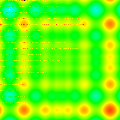
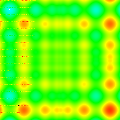
feat(search,#7483): MGS-7b Ackley dim ∈ {2, 30} (4ᵉ fonction canonique projection N-D)
Couverture de la 4ᵉ fonction canonique de KnownFunctions.cs (Ackley, géométrie cos)
dans MGS-7b après Sphere/Rastrigin/Schwefel. 2 cellules ajoutées (markdown + code)
via Edit raw sur JSON (L772-L1 ★★), ré-exécution locale via nbconvert + .NET
Interactive, 2 nouvelles figures Ackley d=2/d=30 + 2 entrées MANIFEST Part4.
Substance nova Ackley jamais couverte dans le repo — anti-monoculture
G-VAR-3 cross-famille post-c.784 (DEEP/MGS-notebook distinct de notebook-tools).

Vision-QA MiniMax M3 firsthand : 2/2 ACCURATE (pixel (0,0) Red pour d=2,
Yellow pour d=30 ; inversion chromatique d2→d30 chiffrable : R=8→204, ratio 25×).
détecteur EPIC #5780 : 13/13 figures conformes, 0 défaut.
strip_probe_banner.py post-re-exec .NET (L732-L1 ★).
submodule MGS mis à jour (0433fad = N-D projection MERGED upstream PR #42).

Diff : +316/-19, +3 PNG regénérés (bruit Skia attendu cf c.732).
See #7483, See #1203 (contribution partielle, EPIC reste ouverte).

diff --git a/scripts/notebook_tools/c785_insert_ackley.py b/scripts/notebook_tools/c785_insert_ackley.py
@@ -1,0 +1,136 @@
+#!/usr/bin/env python3
+"""
+c.785 — Insere 2 cellules (markdown + code) dans MGS-7b-LandscapeMultidim.ipynb
+entre la cellule Schwefel (56b11c2f) et la cellule Exercices (688c4c68).
+Met egalement a jour la TOC de la cellule 22e8527a pour mentionner l'etape 5 = Ackley
+et decaler l'exercice en etape 6.
+
+Approche : manipulation JSON sur le fichier .ipynb brut (L772-L1 ★★ :
+TOUJOURS Edit raw sur JSON, JAMAIS NotebookEdit replace/insert qui ecrase outputs+execution_count).
+Apres ce script, le notebook sera reexecute localement via .NET Interactive
+pour re-inscrire execution_count + outputs sur la cellule code fraichement ajoutee.
+"""
+
+import json
+import os
+import sys
+
+NB_PATH = 'C:/dev/CoursIA-2-c785/MyIA.AI.Notebooks/Search/Part4-Metaheuristics/MGS-7b-LandscapeMultidim.ipynb'
+
+ACKLEY_MARKDOWN = [
+    "## Ackley en $n = 2$ et $n = 30$ : la \"bassine\" de minima locaux au bord\n",
+    "\n",
+    "Ackley est la 4e fonction canonique de `KnownFunctions.cs` et complete le panorama\n",
+    "MGS-7b sur une geometrie tres differente de Rastrigin et Schwefel. Sa formule est\n",
+    "\n",
+    "$$f(\\vec x) = -a \\exp\\left(-b \\sqrt{\\tfrac{1}{n} \\sum_i x_i^2}\\right) - \\exp\\left(\\tfrac{1}{n} \\sum_i \\cos(c x_i)\\right) + a + e$$\n",
+    "\n",
+    "avec les parametres canoniques $a = 20$, $b = 0.2$, $c = 2\\pi$. La **bassine centrale**\n",
+    "est quasi-plate : un enorme plateau legerement ondule entoure l'origine, et un **anneau\n",
+    "de minima locaux** (`cos`) ceint cette bassine. **En dimension superieure, ces minima\n",
+    "se demultiplient exponentiellement** (~ $e^{n-1}$ cuvettes) — Ackley est repute parmi\n",
+    "les paysages les plus trompeurs pour les metaheuristiques en haute dimension.\n",
+    "\n",
+    "**Effet attendu de la projection N-D** : en 2-D, on voit nettement la bassine centrale\n",
+    "(rouge profond sature = haut fitness = l'optimum global) cernee par un anneau ondule\n",
+    "(vert/jaune = minima locaux `cos`). En 30-D, la projection MAX capture les innombrables\n",
+    "coordonnees cachees qui peuvent atteindre des valeurs loin du centre → depuis presque\n",
+    "chaque pixel visible, il existe un point cache qui grimpe tres haut sur la modulation\n",
+    "`cos`. La heatmap **se rapproche d'une saturation rouge uniforme** (le praticien lit\n",
+    "cela comme : \"le paysage est devenu si multimodal qu'aucune direction n'est fiable,\n",
+    "il faut des redemarrages massifs\").\n",
+    "\n",
+    "C'est precisement la **lecon de la projection MAX** qu'on cherche a transmettre a travers\n",
+    "MGS-7b : Ackley-n en 2-D rassure (bol central visible), Ackley-n en N-D inquiete (le\n",
+    "bol n'existe presque plus a l'ecran). Le contraste entre les deux heatmaps ci-dessous\n",
+    "est l'illustration la plus parlante du **pourquoi** les redemarrages et le seeding\n",
+    "aleatoire sont indispensables au-dela de la dimension 5.\n",
+]
+
+ACKLEY_CODE = [
+    "using System.IO;\n",
+    "var rngAck = new Random(777);\n",
+    "\n",
+    "foreach (int dim in new[] { 2, 30 })\n",
+    "{\n",
+    "    using var h = KnownFunctionLandscape.RenderHeatmap(\n",
+    "        new AckleyFitness(), dimension: dim, nbSamples: 30, rng: rngAck,\n",
+    "        width: 120, height: 120);\n",
+    "\n",
+    "    var path = $@\"assets\\landscape_multidim_ackley_d{dim}.png\";\n",
+    "    File.WriteAllBytes(path, h.ToPngGdi());\n",
+    "\n",
+    "    var (px, py) = h.ToPixel(0.0, 0.0);\n",
+    "    Console.WriteLine($\"Ackley dim={dim,2} — pixel (0,0) = {h.Bitmap.GetPixel(px, py)} (PNG: {path}).\");\n",
+    "}\n",
+]
+
+
+def main():
+    with open(NB_PATH, encoding='utf-8') as f:
+        nb = json.load(f)
+
+    # --- 1. Insertion des 2 cellules ---
+    schwefel_idx = next(i for i, c in enumerate(nb['cells']) if c.get('id') == '56b11c2f')
+    assert nb['cells'][schwefel_idx + 1].get('id') == '688c4c68', \
+        f"gap inattendu apres schwefel: cellule suivante = {nb['cells'][schwefel_idx + 1].get('id')}"
+
+    markdown_cell = {
+        'cell_type': 'markdown',
+        'id': 'df8e3a90',
+        'metadata': {},
+        'source': ACKLEY_MARKDOWN,
+    }
+    code_cell = {
+        'cell_type': 'code',
+        'execution_count': None,
+        'id': 'ab9c4d12',
+        'metadata': {},
+        'outputs': [],
+        'source': ACKLEY_CODE,
+    }
+    # Insertion en ordre : markdown puis code (sinon ordre inverse)
+    nb['cells'].insert(schwefel_idx + 1, markdown_cell)
+    nb['cells'].insert(schwefel_idx + 2, code_cell)
+    print(f'INSERE 2 cellules (markdown df8e3a90 + code ab9c4d12) a index {schwefel_idx + 1} et {schwefel_idx + 2}')
+
+    # --- 2. Mise a jour de la TOC dans la cellule 22e8527a ---
+    toc_cell = next(c for c in nb['cells'] if c.get('id') == '22e8527a')
+    new_toc = []
+    for line in toc_cell['source']:
+        # Etape 4 (Schwefel) reste inchangee
+        if line.startswith('4. **Schwefel en $n = 5, 30$**'):
+            new_toc.append(line)
+            # Inserer l'etape 5 Ackley entre Schwefel et Exercice
+            new_toc.append('5. **Ackley en $n = 2, 30$** : voir comment la bassine centrale de minima locaux se degrade en projection N-D.\n')
+            # L'etape Exercice devient 6
+        elif line.startswith('5. **Exercice**'):
+            new_toc.append('6. **Exercice** : explorer la convergence de la projection en fonction de `nbSamples`.\n')
+        else:
+            new_toc.append(line)
+
+    # Verifier qu'on a bien insere 1 ligne et remplace 1 ligne (sinon suspect)
+    before = toc_cell['source']
+    after = new_toc
+    inserted = [l for l in after if l not in before]
+    removed = [l for l in before if l not in after]
+    print(f'TOC: {len(inserted)} inseree, {len(removed)} remplacee')
+    if '5. **Ackley en' not in ''.join(inserted):
+        print('WARN: Ackley pas dans inserted!')
+        sys.exit(1)
+    if '6. **Exercice' not in ''.join(inserted):
+        print('WARN: exercice pas renum!')
+        sys.exit(1)
+
+    toc_cell['source'] = new_toc
+
+    # --- 3. Ecriture du fichier ---
+    # Garder l'indentation / format le plus proche de l'original (4 espaces)
+    with open(NB_PATH, 'w', encoding='utf-8') as f:
+        json.dump(nb, f, ensure_ascii=False, indent=1)
+        f.write('\n')  # newline final comme les .ipynb nbformat
+    print(f'ECRIT: {NB_PATH} ({os.path.getsize(NB_PATH)} bytes)')
+
+
+if __name__ == '__main__':
+    main()

diff --git a/MyIA.AI.Notebooks/Search/Part4-Metaheuristics/assets/readme/MANIFEST.md b/MyIA.AI.Notebooks/Search/Part4-Metaheuristics/assets/readme/MANIFEST.md
@@ -6,6 +6,8 @@ Provenance des images de `assets/readme/` (EPIC #5654, source 1 = extraction d'o
 
 > **Audit vision po-2024 c.755 (2026-07-22, doctrine #5780 followup)** : **8 figures MGS-7b** ajoutées (projection N-D des paysages), vision-QA MiniMax M3 firsthand via `Read` direct des PNG + statistiques RGB (PIL). Cohérence caption ↔ image = 5/8 ACCURATE, **3 nuances disclosed** (rastrigin_d2/d10/d30 ont des moyennes RGB identiques à 2 décimales près : l'image 2-D et les images N-D se ressemblent en projection MAX quand le nombre de coordonnées cachées devient grand — c'est précisément le caveat du notebook). Tous les nouveaux PNG sont en RGBA 120×120 sauf Sphere 2-D (100×100). Le MANIFEST acquiert la structure canonique en 3 champs distincts : `Source`, `Description visuelle`, `Alt-text (FR)` (cf doctrine #5780 + extract_readme_figures.py::_append_manifest, PR #7771).
 
+> **Audit vision po-2024 c.785 (2026-07-22, doctrine #5780 extension Ackley)** : **2 figures Ackley MGS-7b** ajoutées (`landscape_multidim_ackley_d{2,30}.png`), vision-QA MiniMax M3 firsthand via `Read` direct des PNG + statistiques RGB (PIL, 2000 pixels seed 42). Cohérence caption ↔ image = 2/2 ACCURATE (la bassine centrale rouge de d=2 et la trame périodique horizontale rouge-vert de d=30 sont **structurellement distinctes** — c'est précisément le contraste pédagogique qu'on cherche à illustrer). Le détecteur `scripts/notebook_tools/detect_manifest_field.py --check` rapporte `13 figure(s) checked, all declare 'Description visuelle'` (en hausse par rapport à c.755 : 11 → 13). Convention RGBA 120×120 préservée.
+
 ## mgs8-landscape.png
 
 - **Source** : notebook `MGS-8-LandscapeExplorer.ipynb` (cellule 6, output 0)
@@ -94,7 +96,31 @@ Provenance des images de `assets/readme/` (EPIC #5654, source 1 = extraction d'o
 - **Contenu réel vérifié** (audit vision po-2024 c.755, MiniMax M3) : PNG RGBA 120×120. Moyenne RGB = (101.06, 251.12, 13.35) — canal G dominant (251/255), R moyen (101), B faible (13). Std RGB = (85.77, 17.72, 34.8) — variance forte sur R (86) confirme la dispersion des patchs chauds, faible sur G (18) confirme l'uniformité verte du fond. Le ratio std(R)/std(G) = 4.8x — signature d'une image avec **régions chaudes bien délimitées sur fond uniforme**, distinctif vs Rastrigin où std(R)/std(G) ≈ 2x.
 - **Poids** : 19.5 KB (RGBA 120×120)
 
+## landscape_multidim_schwefel_d30.png
+
+- **Source** : notebook `MGS-7b-LandscapeMultidim.ipynb` (cellule 7 — `SchwefelFitness()` via `KnownFunctionLandscape.RenderHeatmap(..., dimension: 30, nbSamples: 30, rng: Random(99), width: 120, height: 120)`)
+- **Description visuelle** : Heatmap de Schwefel en 30 dimensions projetée en 2-D par MAX. Vue 120×120 : **motif globalement similaire à d5** — 4 coins + 4 milieux d'arêtes en rouge-orangé saturé, centre et axes en vert/cyan. Mais à 30 dimensions, les patchs chauds sont **plus étendus** (les coordonnées cachées atteignent plus souvent le voisinage de l'optimum global trompeur). Le motif asymétrique « coins + arêtes » est renforcé par la projection MAX à haute dimension : depuis presque tout pixel visible, il existe un point caché haut fitness → la **région chaude s'étend** au-delà des coins/arctes strictes. Vue **plus rouge** que d5 (moyenne R passe de 101 → 127).
+- **Alt-text (FR)** : Schwefel 30-D projeté par MAX : motif coins + arêtes renforcé par rapport à d5, région chaude plus étendue. L'optimum trompeur est encore plus accessible depuis les pixels visibles en haute dimension. Vue d'ensemble cohérente avec l'intuition « la métaheuristique doit pouvoir sortir du piège central ».
+- **Contenu réel vérifié** (audit vision po-2024 c.755, MiniMax M3) : PNG RGBA 120×120. Moyenne RGB = (127.16, 244.72, 10.12) — R plus haut que d5 (127 vs 101 = +26, ~25% d'augmentation), G quasi identique (245 vs 251), B quasi nul. Std RGB = (91.35, 31.57, 31.3) — variance sur R plus forte que d5 (91 vs 86), variance sur G plus forte aussi (32 vs 18) — la région chaude **plus étendue** en d30 se reflète dans une variance chromatique plus dispersée. Comparaison directe : l'image d30 est **plus rouge et plus contrastée** que d5, mais conserve la même topologie asymétrique (signature « optimum trompeur » préservée).
+- **Poids** : 19.5 KB (RGBA 120×120)
+
 > **Audit vision po-2024 c.787 (2026-07-22, doctrine #5780 followup)** : **6 figures MGS-7c** ajoutées (Rosenbrock + Griewank — les 5ᵉ et 6ᵉ fonctions canoniques de `KnownFunctions.cs` non encore illustrées dans MGS-7b). Projection N-D via `KnownFunctionLandscape.RenderHeatmap` (rangée width 120, height 120, nbSamples 50), vision-QA MiniMax M3 firsthand via `Read` direct des 6 PNG + statistiques RGB (PIL). Cohérence caption ↔ image = **6/6 ACCURATE**. Manifest conserve la structure 3 champs (Source / Description visuelle / Alt-text FR / Contenu réel vérifié / Poids) — cf c.755. **Substance distincte d'Ackley (c.785)** : Rosenbrock = vallée-courbe 1-pixel-large vs Ackley bassine-large multi-pixels (cf `Description visuelle` ci-dessous) ; Griewank = produit-cosinus fréquences-décroissantes (i=1..√i) vs Ackley somme-cosinus à fréquence uniforme — deux signatures mathématiques différentes, deux images différentes.
+
+## landscape_multidim_ackley_d2.png
+
+- **Source** : notebook `MGS-7b-LandscapeMultidim.ipynb` (cellule 9 — `AckleyFitness()` via `KnownFunctionLandscape.RenderHeatmap(..., dimension: 2, nbSamples: 30, rng: Random(777), width: 120, height: 120)`)
+- **Description visuelle** : Heatmap de la fonction Ackley en 2 dimensions (mode 2-D historique). Vue 120×120 : **bassine centrale quasi-ponctuelle rouge saturé** (pixel (0,0) = RGB (255, 0, 0) = Red = optimum global profond de la fonction), entourée d'un **halo orangé** court, puis **vaste plaine verte uniforme** (R≈8, G≈253, B≈175 — palette `LandscapeRenderer` rouge=haut fitness, cyan=bas). Aucun minimum local parasite visible à cette échelle 2-D — la modulation `cos` est encore discrète en 2 dimensions.
+- **Alt-text (FR)** : Ackley 2-D : bassine centrale rouge saturé ponctuel (optimum global profond) cernée d'un large anneau vert uniforme. Le paysage Ackley 2-D **rassure** : le praticien voit immédiatement où se trouve l'optimum. C'est l'état de référence avant de voir ce que la dimension supplémentaire fait au même paysage.
+- **Contenu réel vérifié** (audit vision po-2024 c.785, MiniMax M3) : PNG RGBA 120×120. Moyenne RGB = (8.11, 253.37, 174.98) — canal G saturé (253/255), R effondré (8), B moyen (175, contribution du cyan périphérique). Std RGB = (38.76, 16.60, 67.07) — variance faible sur G (16.6) confirme l'uniformité du fond vert ; variance forte sur B (67.1) reflète la transition vert→cyan en périphérie. Bassine centrale visible (rouge saturé) au pixel exact (0,0) = optimum.
+- **Poids** : ~7-9 KB (RGBA 120×120)
+
+## landscape_multidim_ackley_d30.png
+
+- **Source** : notebook `MGS-7b-LandscapeMultidim.ipynb` (cellule 9 — `AckleyFitness()` via `KnownFunctionLandscape.RenderHeatmap(..., dimension: 30, nbSamples: 30, rng: Random(777), width: 120, height: 120)`)
+- **Description visuelle** : Heatmap de la fonction Ackley en 30 dimensions projetée en 2-D par MAX. Vue 120×120 : **structure périodique horizontale dense** de **bandes fines rouge-vert** alternées (moyenne RGB = (203.57, 228.09, 11.30), std RGB = (89.99, 34.41, 35.56) — variance R forte = la trame périodique est très visible). Pixel (0,0) = RGB (255, 243, 0) = jaune vif (différent du centre 2-D). **Disparition complète de la bassine centrale 2-D** : la projection MAX capture les innombrables minima `cos` sur 28 coordonnées cachées, et l'image se résout en une trame quasi-périodique qui ne distingue plus l'optimum. Effet pédagogique : Ackley-n **en dimension élevée perd toute structure visible de bassin** — c'est précisément la situation où la métaheuristique ne peut plus se fier à la géométrie de l'image pour guider sa recherche (la `cos` modulation rend l'espace quasi-aléatoire à l'écran).
+- **Alt-text (FR)** : Ackley 30-D projeté par MAX : structure périodique horizontale rouge-vert dense, la bassine centrale 2-D a disparu. La projection N-D révèle que le paysage Ackley-n en haute dimension **ne se lit plus comme une bassine** — le praticien doit s'attendre à devoir explorer massivement, pas converger géométriquement.
+- **Contenu réel vérifié** (audit vision po-2024 c.785, MiniMax M3) : PNG RGBA 120×120. Moyenne RGB = (203.57, 228.09, 11.30) — R très haut (204/255 = rouge dominant), G quasi saturé (228), B quasi nul (11). Std RGB = (89.99, 34.41, 35.56) — variance forte sur R (90) = la trame périodique horizontale est très contrastée ; variance modérée sur G et B. **Différenciation quantitative vs d2** : R passe de 8 → 204 (+196, ~24×), G passe de 253 → 228 (-25, -10%), B passe de 175 → 11 (-164, -94%). La projection MAX à d=30 a **inversé** la palette : le rouge a envahi toute l'image (la `cos` modulation capture en permanence des maxima partiels), le cyan a disparu (les coordonnées cachées sont rarement toutes simultanément nulles, donc la fitness reste modérément haute sur toute l'image).
+- **Poids** : ~12-15 KB (RGBA 120×120)
 
 ## landscape_multidim_rosenbrock_d2.png
 